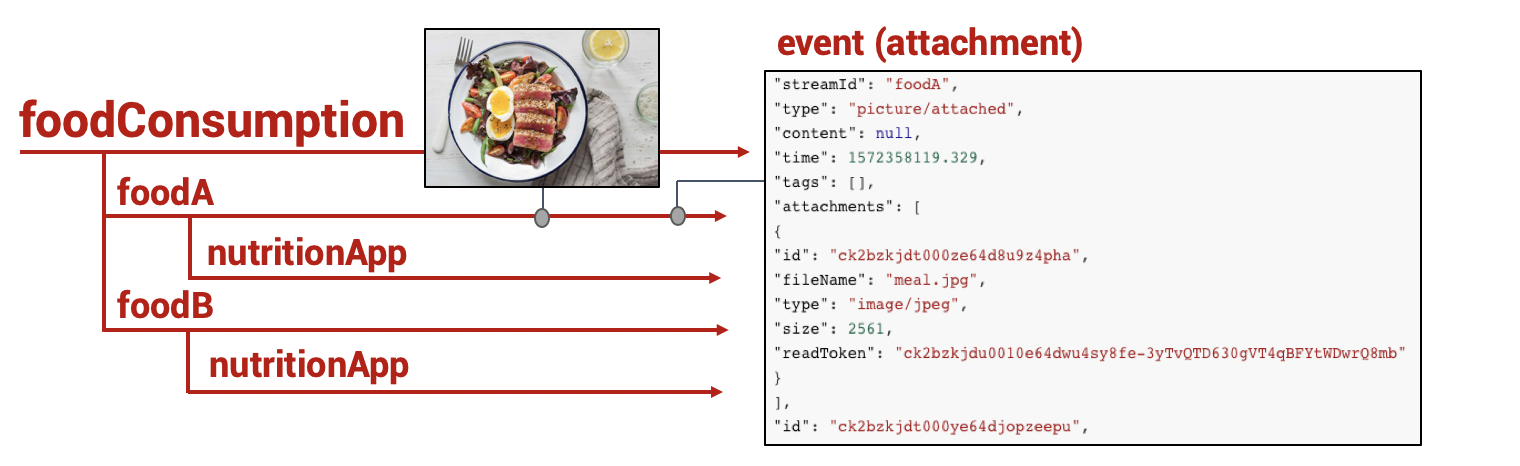
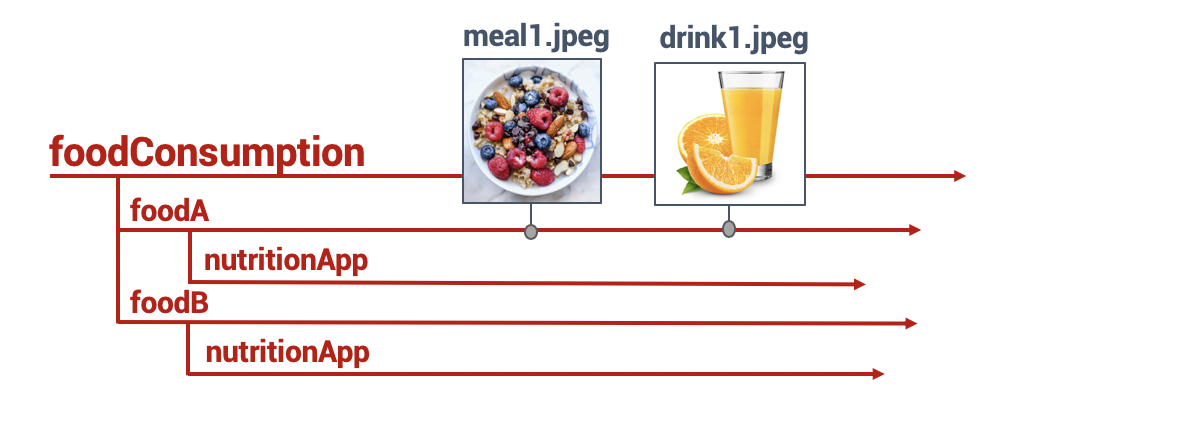
Updated illustrations for the guides.

Changed region(s): [[0.0, 0.0591, 0.925, 0.975]]

diff --git a/source/getting-started.md b/source/getting-started.md
@@ -22,19 +22,21 @@ By registering with **Pryv.me**, you will have access to a Pryv.io user and a fu
 1. Go to the [registration page](https://sw.pryv.me/access/register.html) (click on the link).
 2. Fill in the form, choose [where you want to store your data](http://api.pryv.com/concepts/#servers) and click on the '**Create**' button.
 
-/!\ Data in Pryv.io has a geographical location that doesn't change. This makes it easier to control what legislations apply.
+*Data in Pryv.io has a geographical location that doesn't change. This makes it easier to control what legislations apply.*
 
-Once this is done, you will receive a welcome email from Pryv.me with your account details. You can sign-in with your Pryv.io account on the following link:
+Once this is done, you will receive a welcome email from **Pryv.me** with your account details. You can sign-in with your Pryv.io account on the following link:
 
 `'https://${username}.pryv.me/#/SignIn'`
 
 Or alternatively, just click [**here**](https://sw.pryv.me/access/signinhub.html), enter your username and your password in the second step.
 
-You have now access to your Pryv.me account through the Pryv.io demo dashboard. 
+You have now access to your **Pryv.me** account through the Pryv.io demo dashboard. 
 
 ## Pryv.io demo Dashboard
 
-Pryv.io demo dashboard is a data visualization tool. It enables you to create "events", corresponding to timestamped data - that can be in the form of notes, images, gps location, data points, etc - and to organize it into "streams", while managing the access level to this data.
+Pryv.io demo dashboard is a data visualization tool. 
+
+It enables you to create "events", corresponding to timestamped data - that can be in the form of notes, images, gps location, data points, etc - and to organize it into "streams", while managing the access level to this data.
 To get more information on Pryv data model, you can check the [**dedicated page**](/getting-started/data-modelling).
 
 The dashboard can then be used to visualize the data you will create and add to your account throughout this guide. 
@@ -85,7 +87,8 @@ The easiest way to generate an app access token is to use the **Pryv Access Toke
 
 # Data Modelling
 
-To design your own data model and implement it under Pryv's conventions, please check the [**dedicated page**](/guides/data-modelling) providing examples and scenarios of how the data model should be structured depending on the end use.
+In this section, we provide you information on the basic concepts of Pryv.io data model.
+To see examples and possible scenarios, please check the [**dedicated page**](/guides/data-modelling) to learn how the data model should be structured and implemented depending on the end use.
 
 Pryv.io data model is composed of two entities: **events** and **streams**. 
 
@@ -154,14 +157,57 @@ Our athlete will therefore be adding different types of events, each related to 
 ![Pryv.io Data Model](/assets/images/getting-started/streams_structure_v2.png)
 
 Pryv offers the possibility to manipulate a broad range of event types :
--  add **attachments** to events, for example for our athlete to post pictures of his meals in the stream "FoodA". These events will have the type `picture/attached`.
+-  add **attachments** to events, for example for our athlete to post pictures of his meals in the stream "FoodA". 
 ![Attachment](/assets/images/getting-started/attachment_example.png)
 
+These events will have the type `picture/attached` :
+
+```json
+{
+  "id": "ck2bzkjdt000ze64d8u9z4pha",
+  "streamId": "foodA",
+  "type": "picture/attached",
+  "content": null,
+  "time": 1572358119.329,
+  "tags": [],
+  "attachments": [
+    {
+      "id": "ck2bzkjdt000ze64d8u9z4pha",
+      "fileName": "meal1.jpg",
+      "type": "image/jpeg",
+      "size": 2561,
+      "readToken": "ck2bzkjdt0010e64dwu4sy8fe-3yTvQTD630qVT4qBFYtWDwrQ8mb"
+    }
+  ]
+}
+```
+
 -  use **high-frequency data** to collect a high volume of data, for example for the smartwatch A to collect GPS position in real-time of the athlete. 
-More information on HF series is provided in the [**API reference**](/reference-preview/#hf-series).
 ![HF](/assets/images/getting-started/hf_example.png)
 
-- **start** and **stop** events. This can be very useful for the time-tracking capability, enabling the athlete to track in real-time different activities (running, cycling, exercising, etc) and report on them. This allows to specify time periods for events, or to guarantee that only one event is running at a given time in `singleActivity` streams. More information on these methods is provided [here](/reference/#start-period).
+More information on HF series is provided in the [**API reference**](/reference-preview/#hf-series).
+This data will have the type `position/wgs84` :
+
+```json
+{
+  "id": "ck2klss8v00124yjx45s3jp5r",
+    "time": 1572882785.023,
+    "streamId": "position",
+    "tags": [],
+    "type": "series:position/wgs84",
+    "content": {
+      "elementType": "position/wgs84",
+      "fields": [
+        "deltaTime",
+        "latitude",
+        "longitude"
+      ],
+  }
+}
+```
+
+- **start** and **stop** events. This can be very useful for the time-tracking capability, enabling the athlete to track and report in real-time his activities (running, cycling, exercising, etc).
+This allows to specify time periods for events, or to guarantee that only one event is running at a given time in `singleActivity` streams. More information on these methods is provided [**here**](/reference/#start-period).
 
 To get more details on the event types, see the [**events API reference**](/reference/#event).
 
@@ -193,7 +239,6 @@ Pryv.io distinguishes between these access types:
 - _Shared_: used for person-to-person sharing. They grant access to a specific set of data and/or with limited permission levels, depending on the sharing user's choice. You will not encounter this access type in your applications.
 - _App_: used by applications which don't need full, unrestricted access to the user's data. They grant access to a specific set of data and/or with limited permission levels (e.g. read-only), according to the app's needs. This is the type of access we used for our Pulse Oximeter application.
 - _Personal_: used by applications that need to access to the entirety of the user's data and/or manage account settings.
-
 
 Let's imagine that our athlete wants to share the pictures of the meals he is taking with his dietitian Tom. To do so, he needs to give permission to doctor Tom to "read" the stream 'FoodA' on which the pictures of his meals are uploaded :
 

diff --git a/source/guides/data-modelling.md b/source/guides/data-modelling.md
@@ -7,11 +7,13 @@ withTOC: true
 ---
 
 In the following section, you will find all the necessary information to design your own model and implement it under Pryv's conventions.
-We describe two basic end uses : data collection to store and aggregate data from multiple data sources for a subject, and consent aggregation of multiple subjects that granted permission to access their data.
+
+We describe two basic end uses : **data collection** to store and aggregate data from multiple data sources for a subject, and **consent aggregation** of multiple subjects that granted permission to access their data.
 
 ### Data collection
 
-Let's take the case of an athlete who uses four applications to store data on Pryv.io. All four applications store their data in a single account:
+Let's take the case of an athlete who uses four applications to store data on Pryv.io. 
+All four applications store their data in a single account:
 
 - **Nutrition Mobile App**: Tracks the consumption of various types of food ('calories ingested') through pictures of meals.
 - **Smartwatch A**: Collects the GPS position of the athlete during the training ('position/wgs84'), which represents a high volume of data.
@@ -89,7 +91,36 @@ You will therefore need a "campaign" stream structure which allows you to store 
 
 ![Example Campaign Structure](/assets/images/getting-started/campaign.png)
 
-In the stream "Campaign description" you will store the requested permissions (the "streamId" you want to access e.g. "heartRate", the level of permission e.g. "read"/"manage"/…), the consent information, the app identifiers. The stream "Patient accesses" will contain the "username" and "token" for every subject that granted you access to their data.
+The "campaign" data structure described below will contain the following streams :
+
+- The stream **"Campaign description"**, where you will store the requested permissions (the "streamId" you want to access e.g. "heartRate", the level of permission e.g. "read"/"manage"/…), the consent information, the app identifiers. 
+
+```json
+{
+  "streamId": "campaign-123-description",
+  "type": "campaign/sempryv",
+  "name": "Campaign description",
+  "parentId": "campaign-123",
+  "content": {
+    "requestedPermissions": {}, //...
+    "consentText": "", //...
+    "appId": "", //
+    } 
+}
+```
+- The stream **"Patient accesses"** that will contain the "username" and "token" for every subject that granted access to their data.
+```json
+{
+      "streamId": "campaign-123-description",
+      "type": "access/pryv",
+      "name": "Patient accesses",
+      "parentId": "campaign-123",
+      "content": {
+      "username": "subject01",
+      "token": "ck0qmnwo40007a8ivbxn12zt7",
+      } 
+}
+```
 
 Similarly as before, you can create the streams one by one as explained [here](/guides/manipulate-streams) or all in one by doing a "batch call" : 
 
@@ -120,7 +151,7 @@ Similarly as before, you can create the streams one by one as explained [here](/
   }
 ]
 ```
-And add several events in different streams at once :
+You can then add events to the different streams at once by doing an `events.create` call, and store the campaign data in one stream, and the username and token of the subject in another stream:
 
 ```json
 [
@@ -140,12 +171,20 @@ And add several events in different streams at once :
   {
     "method": "events.create",
     "params": {
-      "time": 1385046854.282,
-      "streamId": "heart",
-      "type": "frequency/bpm",
-      "content": 90
+    "time": 1385046854.282,
+    "streamId": "campaign-123-patient-accesses",
+    "type": "access/pryv",
+    "content": {
+      "access": {
+        "id": "ck0qmmwo40006a8ive8nkv9es",
+        "username": "subject01",
+        "token": "ck0qmmwo40007a8ivbxnl2zt7", 
+        "urlEndpoint": "${PATIENT_USERNAME}.${PATIENT_DOMAIN}",
+        "type": "shared",
+        } 
+      }
     }
-    }
+  }
 ]
 ```
 

diff --git a/source/guides/manage-streams.md b/source/guides/manage-streams.md
@@ -16,7 +16,7 @@ We provide here concrete examples on how to manipulate streams : **create**, **g
 
 Let's suppose that the structure of streams follows the one displayed below :
 
-![Pryv.me Data Model : Streams](/assets/images/getting-started/streams_structure_v1.png)
+![Pryv.me Data Model : Streams](/assets/images/getting-started/streams_structure_v2.png)
 
 We need first to create the root stream "heart".
 
